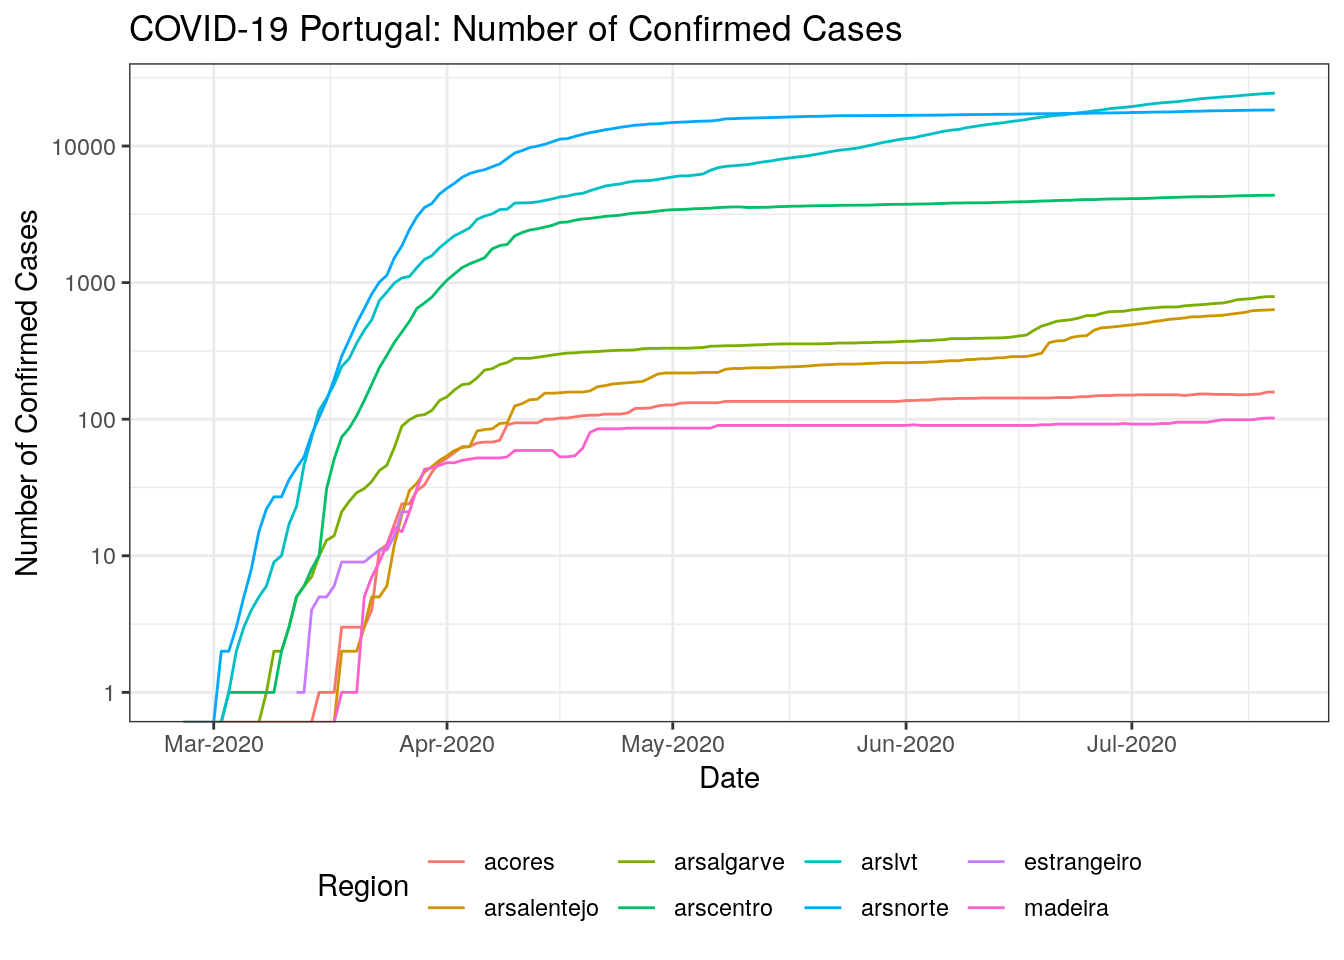
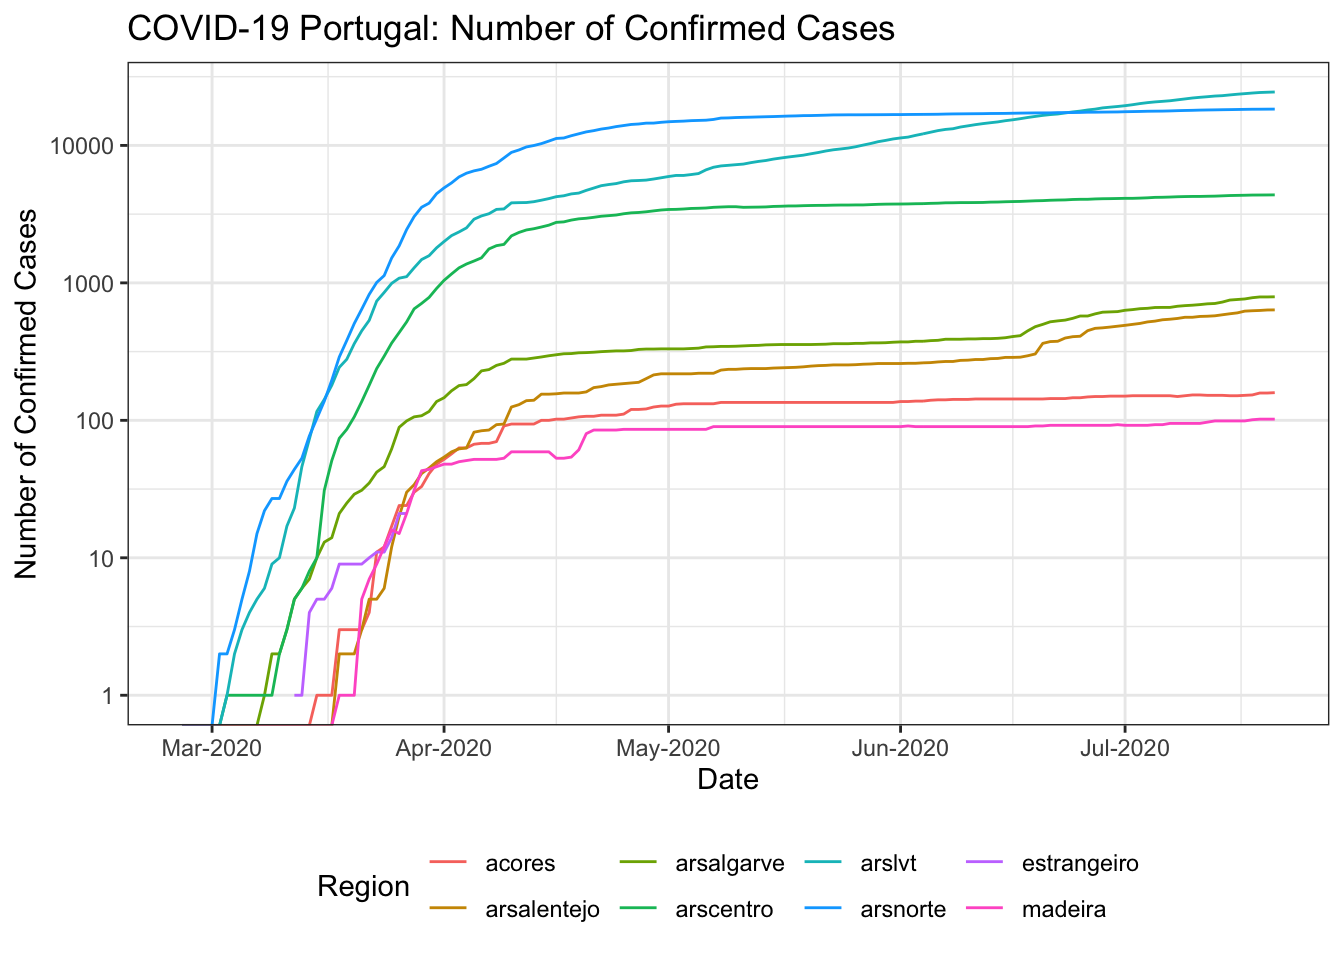
Data Update & Re-build README.Rmd

diff --git a/README.md b/README.md
@@ -1,17 +1,16 @@
 
 ## Daily Portuguese COVID-19 Data
 
-**Last updated: Tue 21 Jul 2020 (11:20:36 WEST \[+0100\])**
+**Last updated: Wed 22 Jul 2020 (03:26:13 UTC \[+0000\])**
 
-  - Data available from **26 Feb 2020** until **20 Jul 2020** (146
+  - Data available from **26 Feb 2020** until **21 Jul 2020** (147
     days).
 
 ### Download User Friendly Version
 
   - Download the user friendly data from:
     **[covid19pt\_DSSG\_Long.csv](https://raw.githubusercontent.com/CEAUL/Dados_COVID-19_PT/master/data/covid19pt_DSSG_Long.csv)**
-    or use the following direct link in your
-        program:
+    or use the following direct link in your program:
       - <https://raw.githubusercontent.com/CEAUL/Dados_COVID-19_PT/master/data/covid19pt_DSSG_Long.csv>
   - **Variables**
       - `data`: Date (Portuguese spelling).
@@ -60,19 +59,19 @@ CV <- fread(here("data", "covid19pt_DSSG_Long.csv"))
 # Looking at the data:
 tail(CV)
 ##          data   origVars   origType other symptoms sex ageGrpLower ageGrpUpper
-## 1: 2020-07-15 vigilancia vigilancia                All                        
-## 2: 2020-07-16 vigilancia vigilancia                All                        
-## 3: 2020-07-17 vigilancia vigilancia                All                        
-## 4: 2020-07-18 vigilancia vigilancia                All                        
-## 5: 2020-07-19 vigilancia vigilancia                All                        
-## 6: 2020-07-20 vigilancia vigilancia                All                        
+## 1: 2020-07-16 vigilancia vigilancia                All                        
+## 2: 2020-07-17 vigilancia vigilancia                All                        
+## 3: 2020-07-18 vigilancia vigilancia                All                        
+## 4: 2020-07-19 vigilancia vigilancia                All                        
+## 5: 2020-07-20 vigilancia vigilancia                All                        
+## 6: 2020-07-21 vigilancia vigilancia                All                        
 ##    ageGrp   region value valueUnits
-## 1:        Portugal 35316      Count
-## 2:        Portugal 34898      Count
-## 3:        Portugal 35150      Count
-## 4:        Portugal 35113      Count
-## 5:        Portugal 35081      Count
-## 6:        Portugal 35073      Count
+## 1:        Portugal 34898      Count
+## 2:        Portugal 35150      Count
+## 3:        Portugal 35113      Count
+## 4:        Portugal 35081      Count
+## 5:        Portugal 35073      Count
+## 6:        Portugal 35077      Count
 
 # Order data by original variable name and date.
 setkeyv(CV, c("origVars", "data"))
@@ -122,7 +121,7 @@ CV[origType=="confirmados" & ageGrp=="" & region!="Portugal"] %>%
     y = "Number of Confirmed Cases",
     colour = "Region")
 ## Warning: Transformation introduced infinite values in continuous y-axis
-## Warning: Removed 130 row(s) containing missing values (geom_path).
+## Warning: Removed 131 row(s) containing missing values (geom_path).
 ```
 
 <img src="README_figs/README-casesbyRegion-1.png" width="672" />
@@ -151,9 +150,9 @@ CV[dailyChange<0 & !(origType %in% c("vigilancia", "internados"))][
 ##   4: 2020-03-24 confirmados   confirmados_40_49_f   224          -2
 ##   5: 2020-03-19 confirmados   confirmados_60_69_f    35         -14
 ##  ---                                                               
-## 168: 2020-04-04      obitos    obitos_arsalentejo     0          -1
-## 169: 2020-05-23      obitos      obitos_arscentro   230          -3
-## 170: 2020-07-03      obitos      obitos_arscentro   248          -1
-## 171: 2020-06-20      obitos              obitos_f   768          -1
-## 172: 2020-05-21 transmissao transmissao_importada   767          -3
+## 169: 2020-04-04      obitos    obitos_arsalentejo     0          -1
+## 170: 2020-05-23      obitos      obitos_arscentro   230          -3
+## 171: 2020-07-03      obitos      obitos_arscentro   248          -1
+## 172: 2020-06-20      obitos              obitos_f   768          -1
+## 173: 2020-05-21 transmissao transmissao_importada   767          -3
 ```
